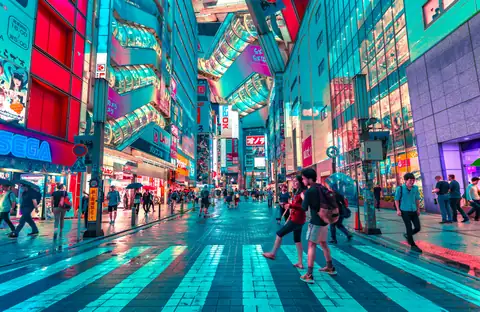
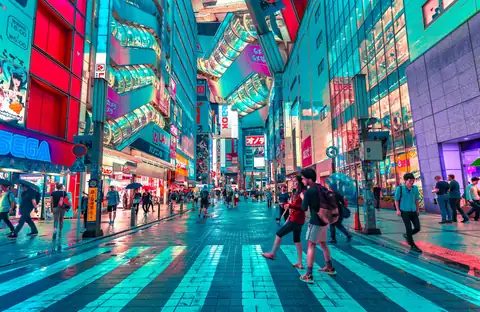
perf(lcp): optimize mobile hero picture dimensions, compress mobile AVIF to 24KB, and prune JetBrains Mono 500

diff --git a/app/ro/page.tsx b/app/ro/page.tsx
@@ -101,21 +101,29 @@ export default function RomanianHomePage() {
               media="(max-width: 768px)"
               type="image/avif"
               srcSet="/images/hero/hero-jet-mobile.avif"
+              width={480}
+              height={312}
             />
             <source
               media="(max-width: 768px)"
               type="image/webp"
               srcSet="/images/hero/hero-jet-mobile.webp"
+              width={480}
+              height={312}
             />
             <source
               media="(min-width: 769px)"
               type="image/avif"
               srcSet="/images/hero/hero-jet-desktop.avif"
+              width={1280}
+              height={779}
             />
             <source
               media="(min-width: 769px)"
               type="image/webp"
               srcSet="/images/hero/hero-jet-desktop.webp"
+              width={1280}
+              height={779}
             />
             <img
               src="/images/hero/hero-jet-mobile.avif"
@@ -123,8 +131,8 @@ export default function RomanianHomePage() {
               fetchPriority="high"
               loading="eager"
               decoding="async"
-              width={1280}
-              height={779}
+              width={480}
+              height={312}
               className="w-full h-full object-cover opacity-30 filter brightness-95 contrast-110"
             />
           </picture>

diff --git a/components/home/Hero.tsx b/components/home/Hero.tsx
@@ -15,21 +15,29 @@ export function Hero() {
             media="(max-width: 768px)"
             type="image/avif"
             srcSet="/images/hero/hero-jet-mobile.avif"
+            width={480}
+            height={312}
           />
           <source
             media="(max-width: 768px)"
             type="image/webp"
             srcSet="/images/hero/hero-jet-mobile.webp"
+            width={480}
+            height={312}
           />
           <source
             media="(min-width: 769px)"
             type="image/avif"
             srcSet="/images/hero/hero-jet-desktop.avif"
+            width={1280}
+            height={779}
           />
           <source
             media="(min-width: 769px)"
             type="image/webp"
             srcSet="/images/hero/hero-jet-desktop.webp"
+            width={1280}
+            height={779}
           />
           <img
             src="/images/hero/hero-jet-mobile.avif"
@@ -37,8 +45,8 @@ export function Hero() {
             fetchPriority="high"
             loading="eager"
             decoding="async"
-            width={1280}
-            height={779}
+            width={480}
+            height={312}
             className="w-full h-full object-cover opacity-35 filter brightness-95 contrast-110"
           />
         </picture>

diff --git a/app/page.tsx b/app/page.tsx
@@ -395,6 +395,7 @@ export default async function HomePage() {
               src="https://images.unsplash.com/photo-1540959733332-eab4deabeeaf?auto=format&fit=crop&w=2200&q=85"
               alt="Executive Jet on Runway at Sunset"
               fill
+              quality={70}
               className="object-cover opacity-40 filter brightness-90 contrast-110"
               fallbackTitle="Editorial Aviation Moment"
               fallbackCode="MOMENT // 01"

diff --git a/app/layout.tsx b/app/layout.tsx
@@ -19,7 +19,7 @@ const jetbrains = JetBrains_Mono({
   subsets: ["latin"],
   variable: "--font-jetbrains",
   display: "swap",
-  weight: ["400", "500", "700"],
+  weight: ["400", "700"],
   preload: false,
 });
 
